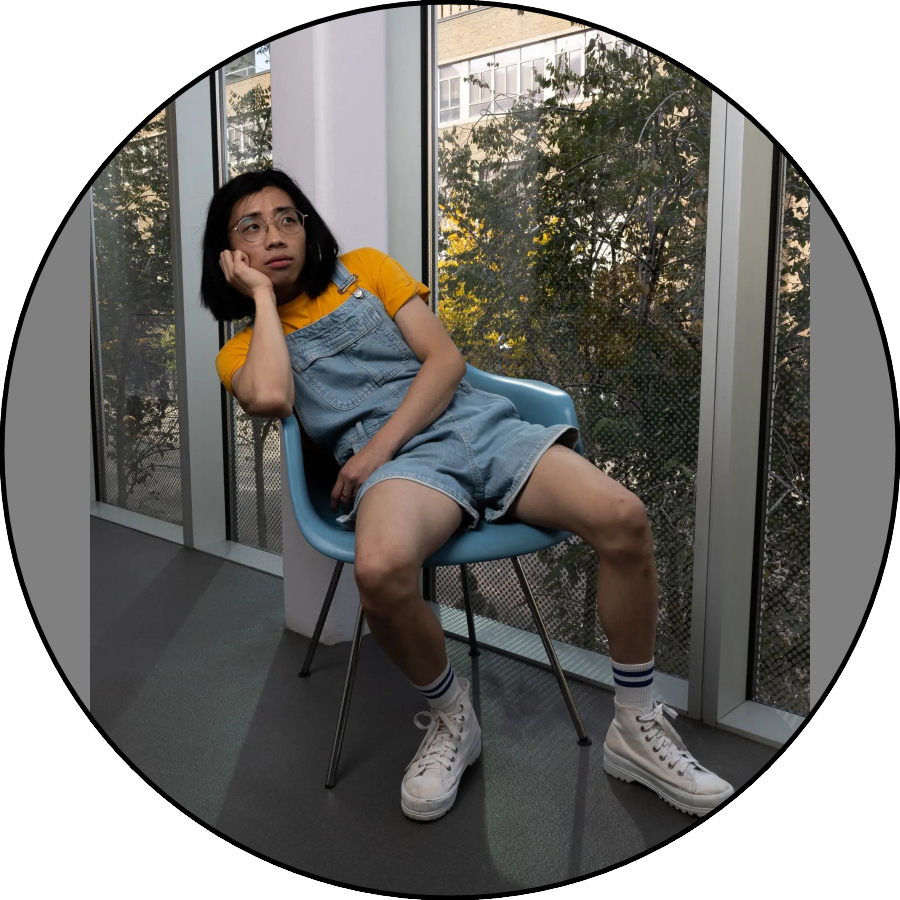
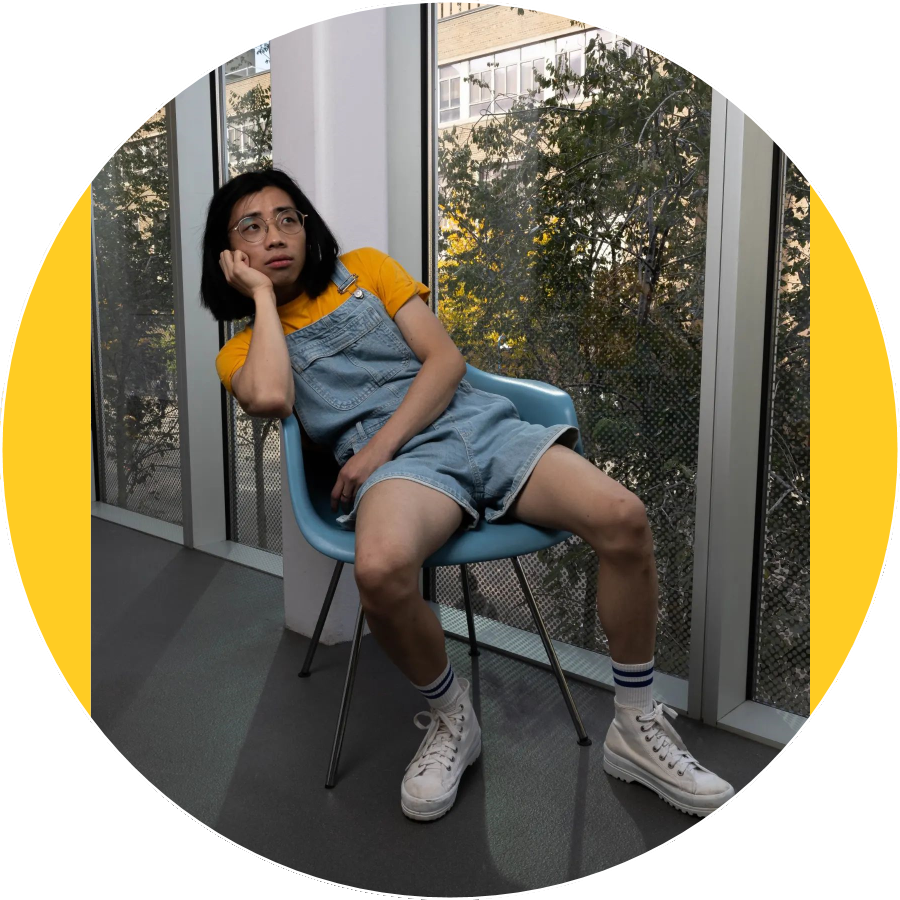
Redefined site themes - typography, spacing

diff --git a/Personal Website/my_website/src/Exollision.js b/Personal Website/my_website/src/Exollision.js
@@ -1,5 +1,5 @@
 import React, {useState} from 'react';
-import {Box, Button, Paper, styled, Container} from '@mui/material'
+import {Box, Button, Paper, styled, Container, Typography} from '@mui/material'
 import Grid2 from '@mui/material/Unstable_Grid2'
 import './App.css'
 import { GalleryButton } from './components/mui';
@@ -11,13 +11,14 @@ import 'react-pdf/dist/esm/Page/AnnotationLayer.css';
 import 'react-pdf/dist/esm/Page/TextLayer.css';
 
 const Item = styled(Paper)(({ theme }) => ({
-    backgroundColor: theme.palette.mode === 'dark' ? '#1A2027' : '#737373',
+    backgroundColor: theme.palette.primary.dark,
     ...theme.typography.body2,
-    padding: theme.spacing(1),
-    textAlign: 'center',
+    padding: theme.spacing(2),
     color: theme.palette.text.primary,
     fontWeight: 'Medium',
     position: 'relative',
+    width: '100%',
+    height: '100%',
   }));
   
 // pdf-react viewer configs
@@ -39,7 +40,7 @@ function importFigures(r) {
 const images = importFigures(require.context('./Assets/images/', false, /^(?:.*\/)?CC_Figure[^\/]*\.jpg/));
 console.log(images["CC_Figure1.jpg"])
 
-function Severity () {
+function Exollision () {
 
     // pdf viewer generator
     const [numPages, setNumPages] = useState(null);
@@ -98,7 +99,7 @@ function Severity () {
     const FigureElements = (index) => {
         const FigureString = "CC_Figure" + index + ".jpg"
         return (
-            <img src={images[FigureString]} alt="" width='450px' style={{display:'block',margin:0}}/>
+            <img src={images[FigureString]} alt="" width='450px' style={{display:'flex',margin:0, border:'2px solid black'}}/>
         );
     }
 
@@ -108,7 +109,7 @@ function Severity () {
             <Container maxWidth="lg" sx={{mt:4,mb:4}}>
                 <Grid2 container spacing = {2}>
                     <Grid2 xs={12} md={12}>
-                        <h2 className='Project-Title'>Review on Severity of Vehicular Collisions</h2>
+                        <h2 className='Project-Title'>Exploring the Severity of Vehicular Collisions</h2>
                     </Grid2>
                     <Grid2 xs={12} md={7}>
                         <Item>
@@ -116,17 +117,19 @@ function Severity () {
                         </Item>
                     </Grid2>
                     <Grid2 container direction="column" md={5}>
-                        <Grid2 xs={12} md={12}>
+                        <Grid2 xs={12}>
                             <Item>
-                                Summary <br></br>
+                                <Typography variant="h5">Summary</Typography>
+                                <Typography variant="body2">
                                 This paper was written for coursework applying data mining and machine learning introductory techniques.
                                 The topic is an investigation on the severity of vehicular collisions in Canada &#40;STATSCAN, 2017&#41;.
                                 A variety of factors were compared including time, weather conditions, parties involved, collision type,
                                 road type, intersection, etc. I primarily worked on exploratory data analysis and fitting a logistic 
                                 regression model to identify key factors in severe collisions.
+                                </Typography>
                             </Item>
                         </Grid2>
-                        <Grid2 xs={12} md={12}>
+                        <Grid2 xs={12}>
                             <Item>
                                 {FigureElements(topFigure)}
                                 {FigureElements(botFigure)}
@@ -143,4 +146,4 @@ function Severity () {
 }
 
 
-export default Severity;
+export default Exollision;

diff --git a/Personal Website/my_website/src/Home.js b/Personal Website/my_website/src/Home.js
@@ -1,7 +1,7 @@
 import React, { Component } from 'react';
 import './App.css';
 import {BrowserRouter, Link, Route, Routes} from "react-router-dom";
-import {SvgIcon} from '@mui/material'
+import {SvgIcon, Typography} from '@mui/material'
 import {Instagram, LinkedIn, GitHub} from '@mui/icons-material'
 import {Stack} from '@mui/system';
 import {StackItem} from './components/mui'
@@ -28,40 +28,41 @@ const platformLinks = [
 const PlatformMapping = platformLinks.map((platform,index) =>
   <StackItem key={index}>
     <a href={platform.link} className='icon'>
-      <SvgIcon sx={{mt:'2px'}}>
+      <SvgIcon fontSize='large' sx={{mt:'2px', mx:'1px'}}>
         {platform.icon}
       </SvgIcon>
     </a>
   </StackItem>
   );
 
+const textStyle = {m:5}
 
 class Home extends React.Component {
     render() {
       return (
         <div>
-            <h1>Hello - Welcome to my portfolio!</h1>
+            <Typography variant="h2" sx={textStyle}>Hello</Typography>
             <div>
               <img src={homePortrait} height="350px" width="350px"/>
             </div>
-            <p>
+            <Typography variant="h6" sx={textStyle}>
               Who am i?
-            </p>
-            <p style={{fontSize:'75%'}}>
+            </Typography>
+            <Typography variant="body1" sx={textStyle}>
               I am a newly graduated Management Engineering student from the University of Waterloo <br></br>
               I currently have 2.5 years of co-op work experience across a variety of roles including operations, data analytics, and software engineering. <br></br>
               I am passionate in applying data science and analytics to drive organizations in improving their products, clients, or operations decision making/strategies.
-            </p>
-            <p>
+            </Typography>
+            <Typography variant="h6" sx={textStyle}>              
               Where am I?
-            </p>
-            <p style={{fontSize:'75%'}}>
+            </Typography>
+            <Typography variant="body1" sx={textStyle}>
               This is my personal website which I will be sharing my experiences and personal projects on<br></br>
               I have chosen this medium to learn to build a new skill (web development) but also has capacity to easily capture and display my work <br></br>
               Feel free to navigate through my projects using the sidebar toggled using the top left button or get to know me more through my platforms below
-            </p>
+            </Typography>
             <Stack 
-              direction={{ xs: 'column', sm: 'row' }} 
+              direction='row'
               spacing={10}
               justifyContent='center'
               >

diff --git a/Personal Website/my_website/src/components/mui.js b/Personal Website/my_website/src/components/mui.js
@@ -7,6 +7,8 @@ import { createTheme, ThemeProvider } from '@mui/material/styles';
 import { isOptionGroup } from '@mui/base';
 import { isDOMComponent } from 'react-dom/test-utils';
 import {Paper, styled} from '@mui/material'
+import { palette } from '@mui/system';
+import { useTheme } from '@emotion/react';
 
 export function DropButtonAppBar() {
 
@@ -74,15 +76,14 @@ const [isOpen, setisOpen] = React.useState(false)
   return (
     <div>
       <AppBar position="static">
-          <Toolbar>
+          <Toolbar sx={{display:'flex', justifyContent:"space-between"}}>
             <IconButton
               size="large"
               edge="start"
               color="inherit"
               aria-label="menu"
-              sx={{ mr: 2 }}
               id="basic-button"
-
+              position="absolute"
               onClick={toggleDrawer(true)}
             >  
               <MenuIcon />
@@ -99,6 +100,8 @@ const [isOpen, setisOpen] = React.useState(false)
                 {children}
               </Box>
             </Drawer>
+            <Typography variant="h3" style={{width:'100%', textAlign:'center'}}>AARON DAI</Typography>
+            <MenuIcon color='primary' sx={{margin:'12px'}}/>
           </Toolbar>
         </AppBar>
     </div>
@@ -107,9 +110,9 @@ const [isOpen, setisOpen] = React.useState(false)
 
 export function StackItem({children}) {
   const Item = styled(Paper)(({ theme }) => ({
-    backgroundColor: theme.palette.mode === 'dark' ? '#1A2027' : '#ffc400',
+    backgroundColor: theme.palette.secondary.light,
     ...theme.typography.body2,
-    padding: theme.spacing(0.5),
+    padding: theme.spacing(1),
     textAlign: 'center',
     color: theme.palette.text.secondary,
   }));

diff --git a/Personal Website/my_website/src/TicTacToe.js b/Personal Website/my_website/src/TicTacToe.js
@@ -2,7 +2,7 @@ import React from 'react';
 import ReactDOM from 'react-dom/client';
 import './TicTacToe.css';
 import reportWebVitals from './reportWebVitals';
-import {Box, Button, Paper} from '@mui/material';
+import {Box, Button, Paper, Typography} from '@mui/material';
 import {Calculate, Sort} from '@mui/icons-material'
 
 /* This application was implemented using the React documentation on Tic Tac Toe with additional features including:
@@ -166,7 +166,7 @@ class Game extends React.Component {
                 />  
             </div>
             <div className="game-info">
-                <div style={{position:'relative', textAlign:'left', paddingLeft:'10px'}}>
+                <div style={{position:'relative', textAlign:'left', paddingLeft:15}}>
                     <Paper
                         variant="outlined"
                         sx={{mx:1,px:0.5,py:0.25, width:'120px', height:'28px',border:'solid white 1px',
@@ -251,12 +251,12 @@ class TicTacToe extends React.Component {
     render() {
         return (
             <Box sx={boxStyling}>
-                <h1 style={{marginTop:0}}>Have a Gander</h1>
+                <Typography variant='h3' sx={{m:3}}>X or O?</Typography>
                 <div style={{paddingLeft:'25%'}}>
                     <Game/>
                 </div>
                 <p style={{fontStyle:'italic',fontSize:'50%', position:'absolute', bottom: 0, left:'50%', marginRight:'-50%',transform:'translate(-50%,-50%)'}}>
-                    This game is an extension of the Tic Tac Toe documentation from REACT
+                    This game is an extension of the Tic Tac Toe documentation from React
                 </p>
             </Box>
         );

diff --git a/Personal Website/my_website/src/App.js b/Personal Website/my_website/src/App.js
@@ -4,7 +4,7 @@ import './App.css';
 import {BrowserRouter, Link, Route, Routes} from "react-router-dom";
 import Home from "./Home";
 import TicTacToe from "./TicTacToe";
-import Severity from "./Severity"
+import Exollision from './Exollision';
 import { render } from '@testing-library/react';
 
 //MUI Library imports
@@ -29,22 +29,10 @@ const DrawerList = () => {
           <Link to="/TicTacToe" className='DrawerList-Text'>Tic Tac Toe</Link>
         </ListItemButton>
         <ListItemButton>
-          <Link to="/Severity" className='DrawerList-Text'>Car Collision</Link>
+          <Link to="/Exollision" className='DrawerList-Text'>Exollision</Link>
         </ListItemButton>
       </List>
       <Divider />
-      {/* <List>
-        {['Other'].map((text, index) => (
-          <ListItem key={text} disablePadding>
-            <ListItemButton>
-              <ListItemIcon>
-                {index % 2 === 0 ? <InboxIcon /> : <MailIcon />}
-              </ListItemIcon>
-              <ListItemText primary={text}/>
-            </ListItemButton>
-          </ListItem>
-        ))}
-      </List> */}
     </div>
   );
 }
@@ -56,11 +44,11 @@ function App () {
         <DrawerList/>
       </DrawerAppBar>
         <Container maxWidth="l">
-          <Box align="center">
+          <Box align="center" margin={'1%'}>
             <Routes>
               <Route path="/" element={<Home/>}/>
               <Route path="/TicTacToe" element={<TicTacToe/>} />
-              <Route path="/Severity" element={<Severity/>} />
+              <Route path="/Exollision" element={<Exollision/>} />
             </Routes>
           </Box>
         </Container>

diff --git a/Personal Website/my_website/src/index.js b/Personal Website/my_website/src/index.js
@@ -6,6 +6,11 @@ import reportWebVitals from './reportWebVitals';
 import CssBaseline from  '@mui/material/CssBaseline'
 import { ThemeProvider, createTheme } from '@mui/material/styles'
 
+const fontList = [
+  'Inconsolata',
+  'Space Mono',
+  'Courier New',
+]
 
 const siteTheme = createTheme({
   palette: { 
@@ -16,15 +21,17 @@ const siteTheme = createTheme({
     },
     secondary: {
       main: '#ffa000',
+      light: '#ffc400',
     },
     background:{
-      // default: '#00352C',
       paper:'#121212',
     },
     text:{
       primary: '#fff',
+      secondary: '#121212'
     },
   },
+  spacing: 4,
   components: {
     MuiCssBaseline:{
       styleOverrides:{
@@ -42,13 +49,12 @@ const siteTheme = createTheme({
     },
   },
   typography: {
-    fontFamily: [
-      'Oxygen',
-      'Roboto',
-      'Helvetica',
-      'Arial'
-    ].join(',')
-  }
+    fontFamily: fontList.join(','),
+    gutterbottom: true,
+    h3: {
+      fontFamily: fontList.slice(1,3).join(','),
+    }
+  },
 });
 
 const root = ReactDOM.createRoot(document.getElementById('root'));
@@ -58,6 +64,7 @@ root.render(
       <CssBaseline/>
         <App />
     </ThemeProvider>
+    {console.log([fontList.slice(1,3)].join(','))}
   </React.StrictMode>
 );
 

diff --git a/Personal Website/my_website/src/App.css b/Personal Website/my_website/src/App.css
@@ -101,9 +101,13 @@ a.icon:visited {
 }
 
 .pdfDocument {
-  position: relative;
-  background-color: white;
+  position: absolute;
+  background-color: none;
+  top:50%;
+  left:50%;
+  transform: translateX(-50%) translateY(-50%);
   box-shadow: 0 30px 40px 0 rgba(16, 36, 94, 0.2);
+  border: solid rgba(0, 0, 0, 0.5);
 }
 
 .pdfDocument:hover .page-controls{

diff --git a/Personal Website/my_website/src/index.css b/Personal Website/my_website/src/index.css
@@ -22,4 +22,4 @@ ol, ul {
   margin-top: 10px;
 }
 
-@import url('https://fonts.googleapis.com/css?family=Oxygen');
+@import url('https://fonts.googleapis.com/css?family=Inconsolata|Space+Mono');
